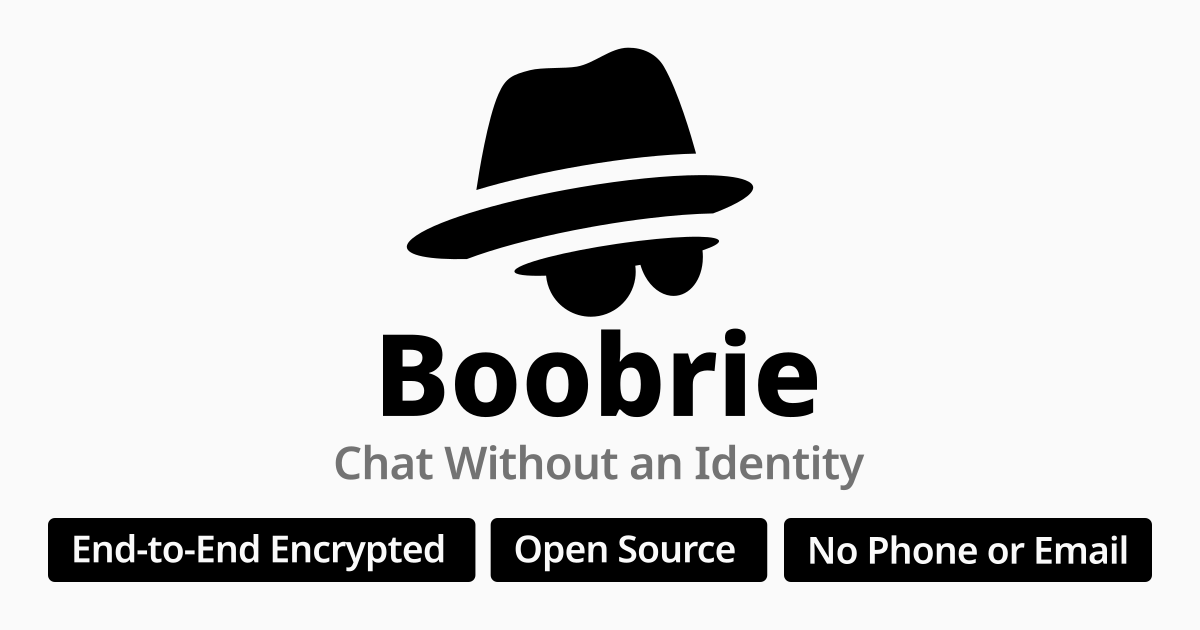
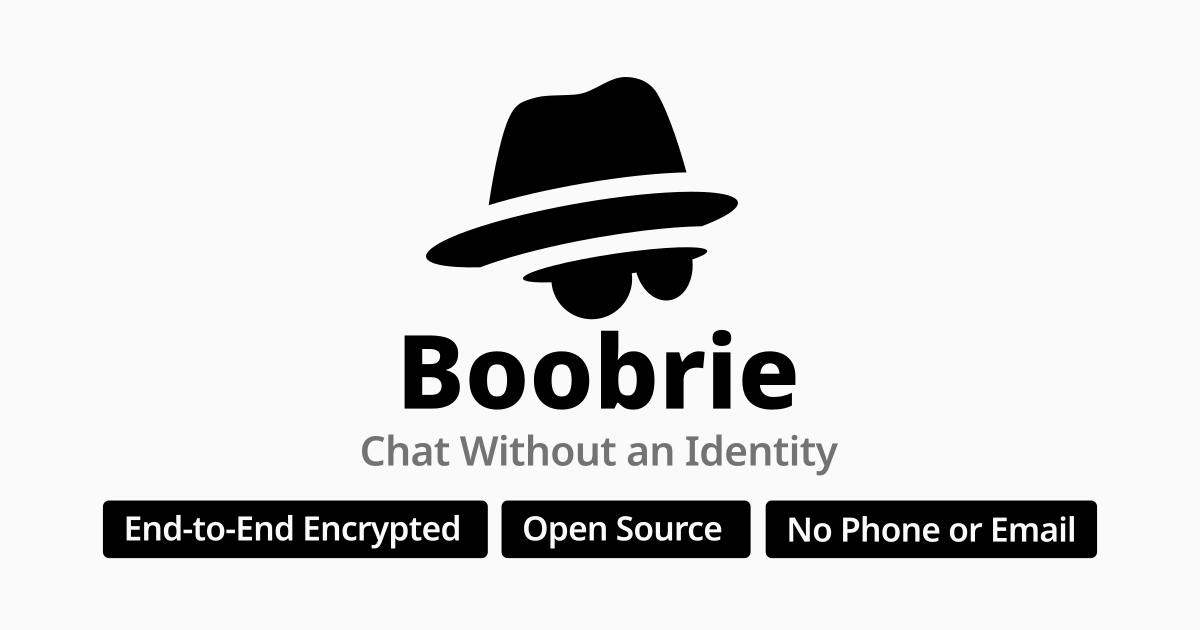
feat: add social preview (#22)
* build: save cloudflare worker source

* feat: add user-agent rules for link preview fetchers

* feat: increase og image padding

Changed region(s): [[0.0308, 0.6937, 0.9867, 0.9349], [0.3392, 0.0603, 0.6475, 0.4825], [0.3083, 0.4825, 0.6783, 0.6635]]

diff --git a/vite.config.ts b/vite.config.ts
@@ -146,6 +146,20 @@ const siteMetadata = (): Plugin => ({
 			type: 'asset',
 			fileName: 'robots.txt',
 			source: [
+				// Link-preview fetchers, not indexers: they read a URL only because
+				// someone just pasted it, and a `Disallow` here is what turns that
+				// share into a bare link instead of a card. A crawler that finds a
+				// group naming it obeys only that group, so this doesn't loosen the
+				// `*` rule for search engines.
+				'User-agent: Twitterbot',
+				'User-agent: facebookexternalhit',
+				'User-agent: LinkedInBot',
+				'User-agent: Slackbot',
+				'User-agent: Discordbot',
+				'User-agent: TelegramBot',
+				'User-agent: WhatsApp',
+				'Allow: /',
+				'',
 				'User-agent: *',
 				// An invite URL carries the invitee's address in the path. Nothing
 				// good comes of those sitting in a search index.

diff --git a/src/cloudflare/worker.js b/src/cloudflare/worker.js
@@ -1,0 +1,16 @@
+export default {
+	async fetch(request) {
+		const response = await fetch(request);
+		if (response.status !== 404) return response;
+
+		const { pathname } = new URL(request.url);
+		const lastSegment = pathname.slice(pathname.lastIndexOf('/') + 1);
+		if (lastSegment.includes('.')) return response;
+
+		return new Response(response.body, {
+			status: 200,
+			statusText: 'OK',
+			headers: response.headers,
+		});
+	},
+};
